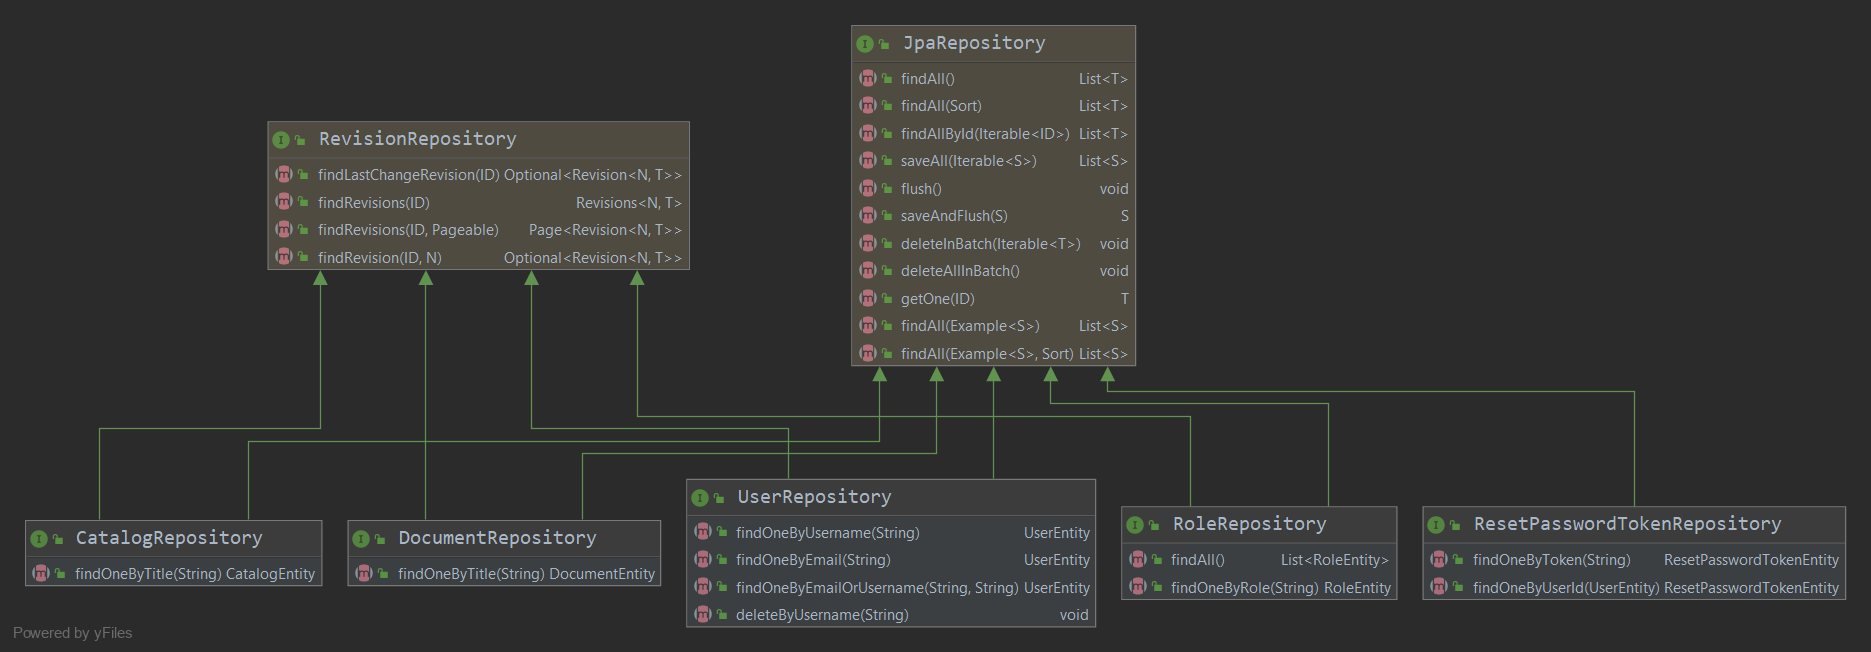
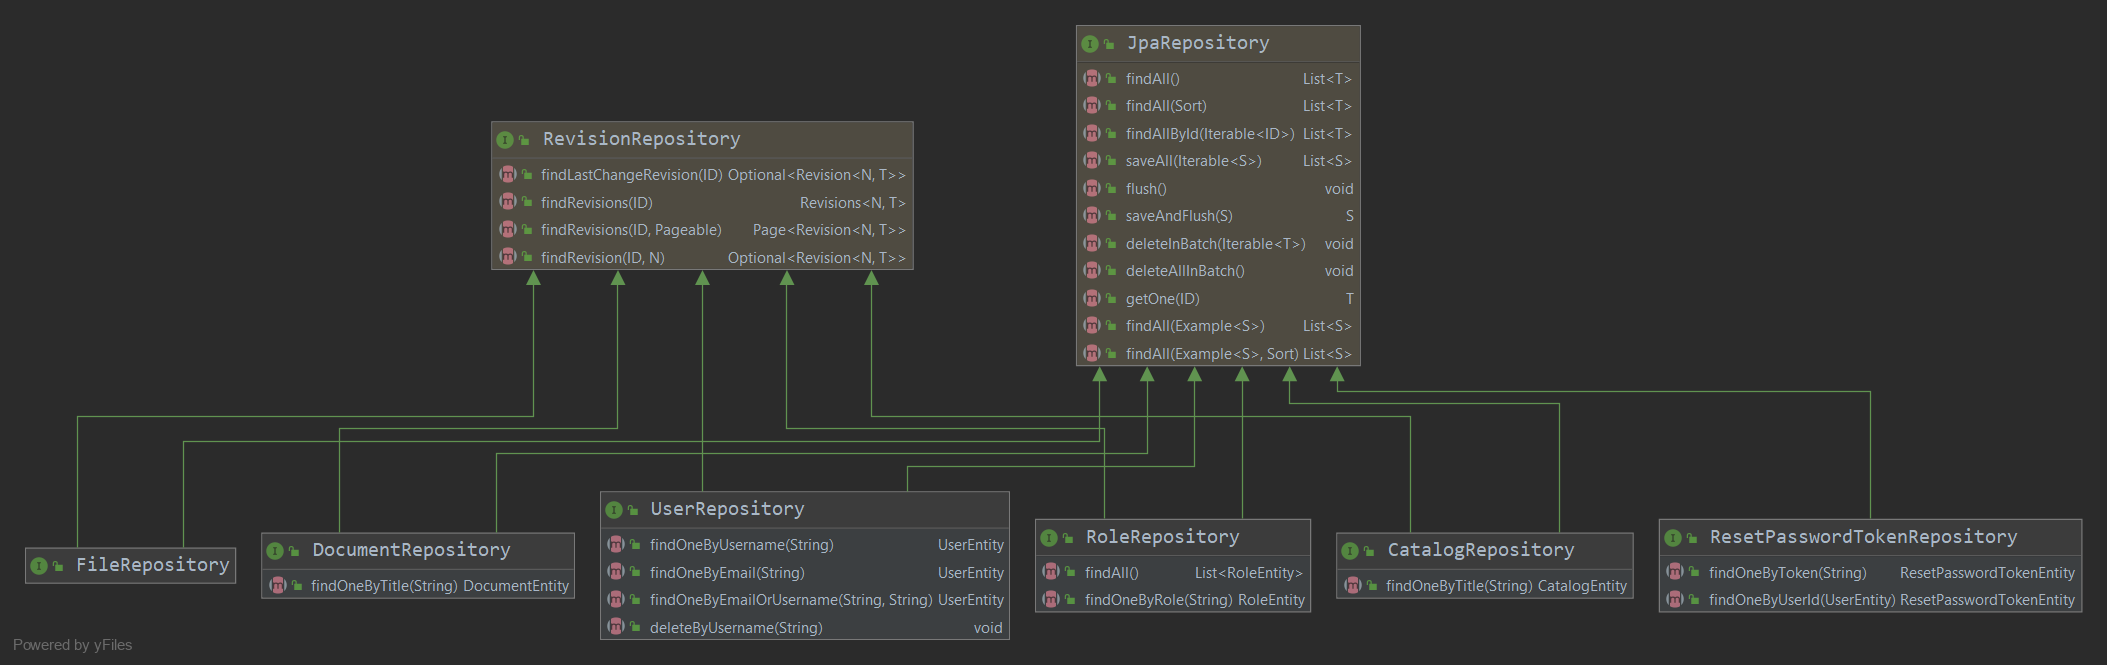
added repositories uml

diff --git a/src/main/java/com/dig/des/document/management/repository/document/FileRepository.java b/src/main/java/com/dig/des/document/management/repository/document/FileRepository.java
@@ -1,0 +1,10 @@
+package com.dig.des.document.management.repository.document;
+
+import com.dig.des.document.management.entity.document.FileEntity;
+import org.springframework.data.jpa.repository.JpaRepository;
+import org.springframework.data.repository.history.RevisionRepository;
+
+public interface FileRepository extends RevisionRepository<FileEntity, Long, Long>,
+    JpaRepository<FileEntity, Long> {
+
+}
